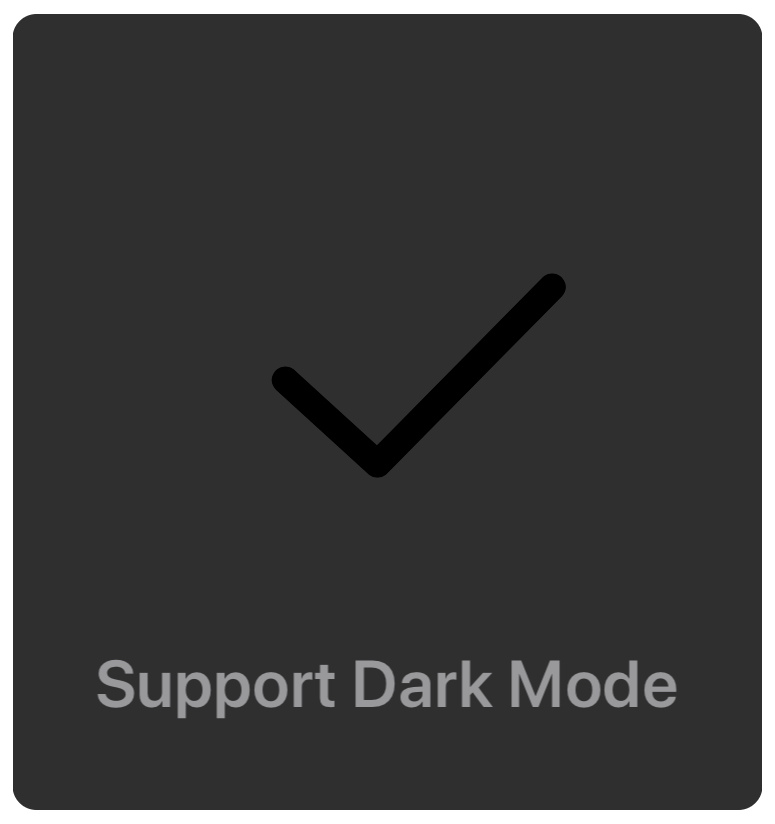
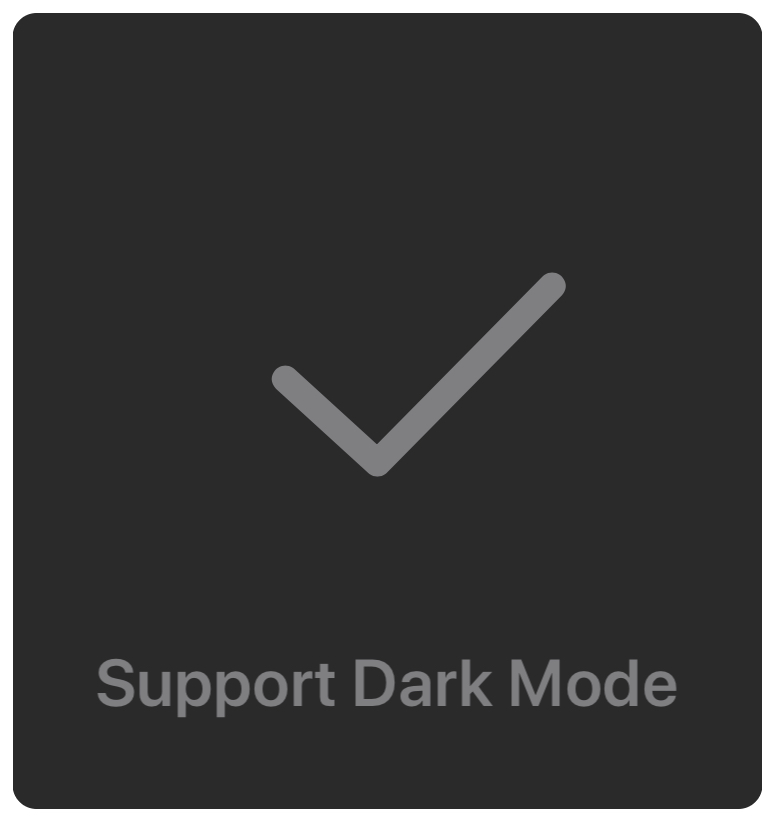
Update colors for Dark Mode

Changed region(s): [[0.1239, 0.7908, 0.8671, 0.882], [0.3406, 0.3345, 0.7432, 0.5779]]

diff --git a/Source/SPAlert/SPAlertView.swift b/Source/SPAlert/SPAlertView.swift
@@ -163,8 +163,8 @@ open class SPAlertView: UIView {
             self.addSubview(messageLabel)
         }
         
-        self.iconColor = self.isDarkMode ? #colorLiteral(red: 0.0822, green: 0.0783, blue: 0.09, alpha: 1) : #colorLiteral(red: 0.3450980392, green: 0.3411764706, blue: 0.3450980392, alpha: 1)
-        self.textColor = self.isDarkMode ? #colorLiteral(red: 0.594, green: 0.594, blue: 0.6, alpha: 1) : #colorLiteral(red: 0.3450980392, green: 0.3411764706, blue: 0.3450980392, alpha: 1)
+        self.iconColor = self.isDarkMode ? #colorLiteral(red: 0.4991744435, green: 0.4991744435, blue: 0.5042166096, alpha: 1) : #colorLiteral(red: 0.3450980392, green: 0.3411764706, blue: 0.3450980392, alpha: 1)
+        self.textColor = self.isDarkMode ? #colorLiteral(red: 0.4991744435, green: 0.4991744435, blue: 0.5042166096, alpha: 1) : #colorLiteral(red: 0.3450980392, green: 0.3411764706, blue: 0.3450980392, alpha: 1)
     }
     
     //MARK: - Public Methods
